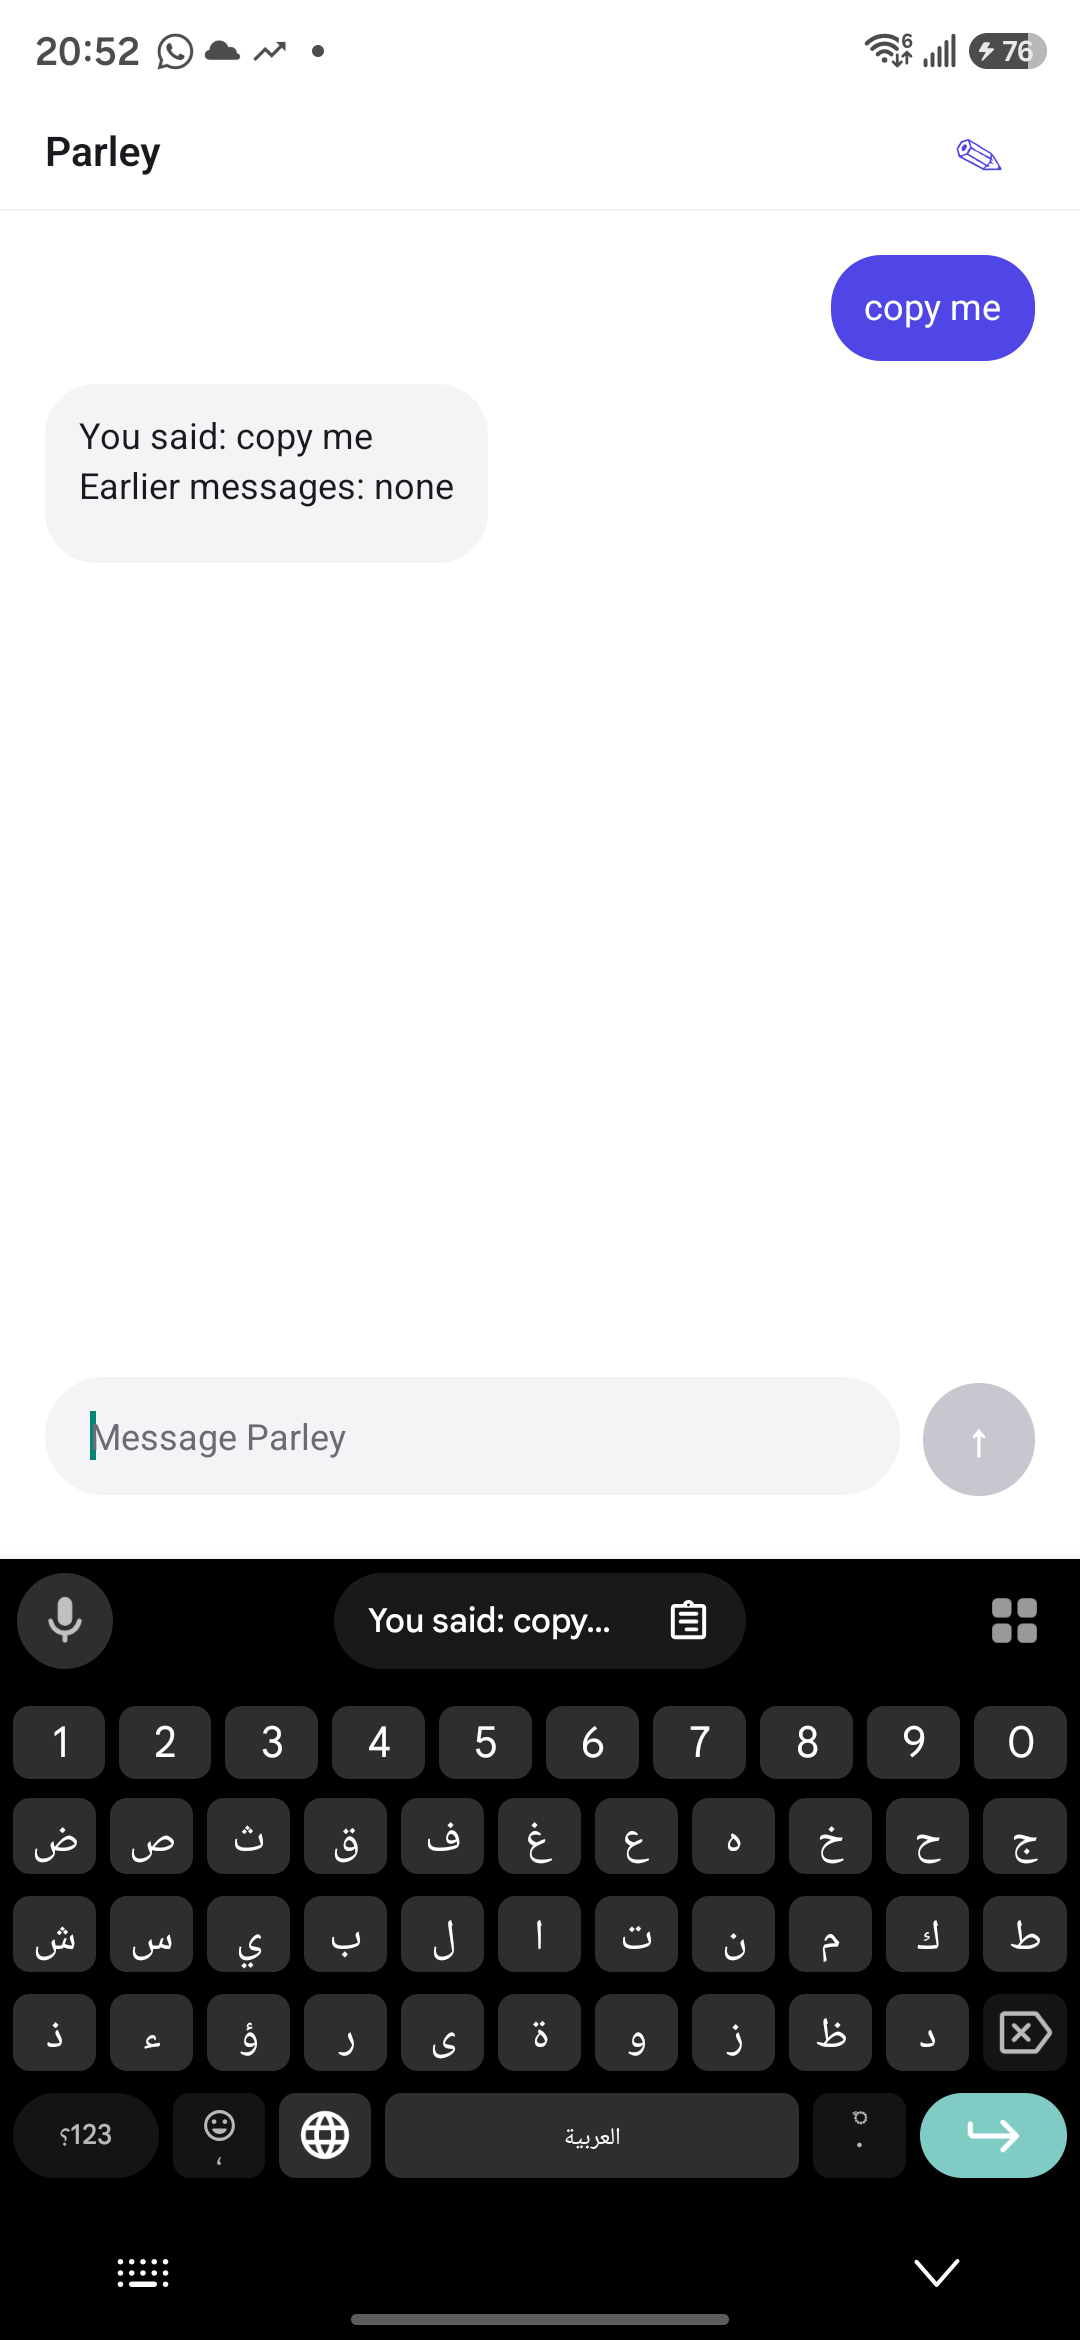
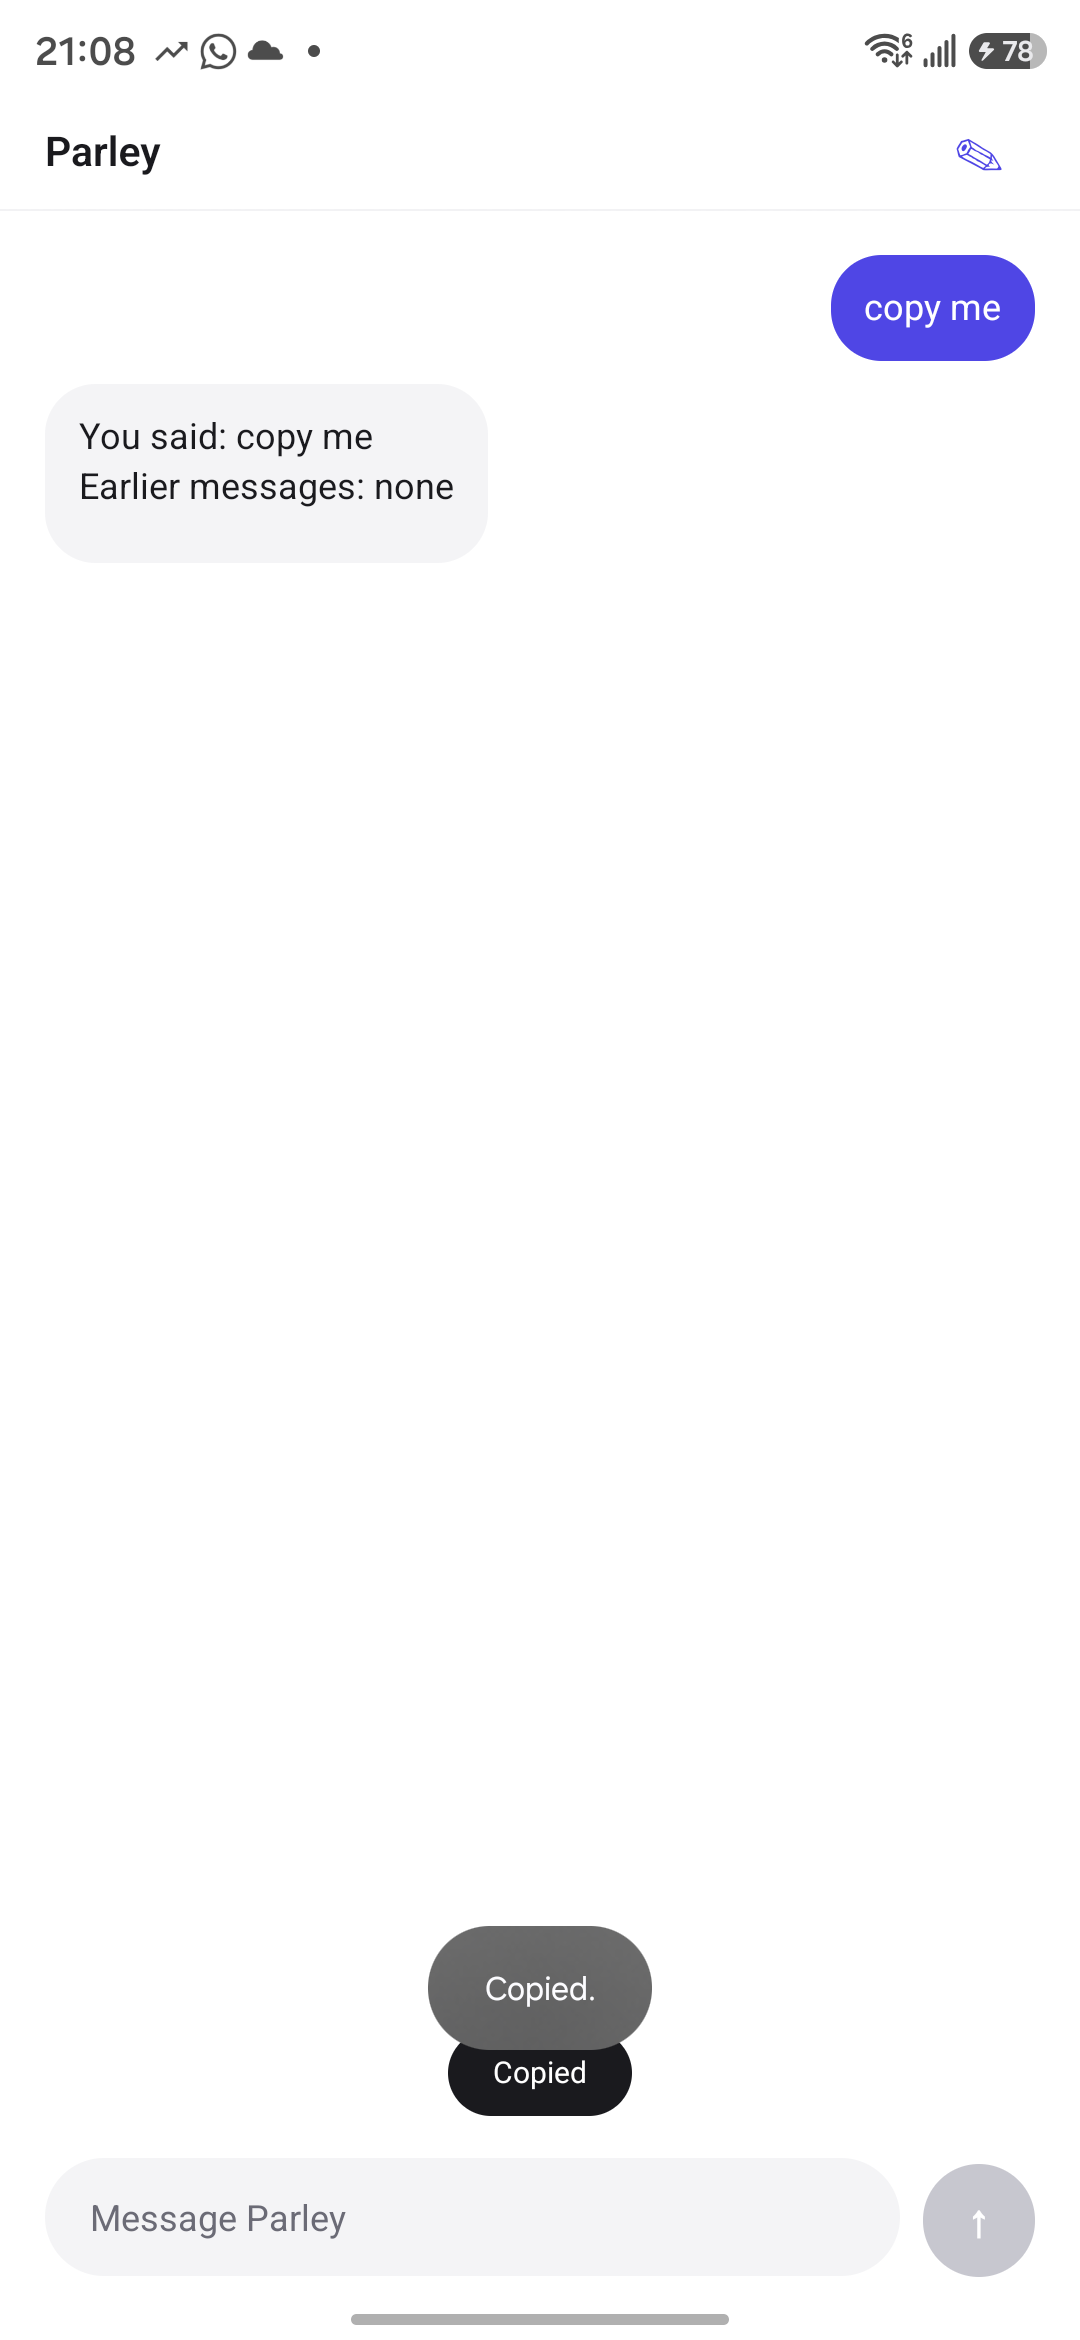
test(QA): re-sign-off S01-chat-core on e5c2e48

diff --git a/docs/sprints/S01-chat-core/qa-report.md b/docs/sprints/S01-chat-core/qa-report.md
@@ -1,9 +1,9 @@
 # QA Report: S01-chat-core
 **Verdict:** PASS
-Commit: e5c2e48 (app code as of 3df7845)
+Commit: e5c2e48 (app code; QA files at 9c8c2dc)
 
 ## Unit gate
-typecheck ✓ lint ✓ format ✓  Jest 88/88, line coverage 96.83%
+typecheck ✓ lint ✓ format ✓  Jest 92/92, line coverage 96.83%
 
 ## AC coverage
 | AC | Jest | Maestro flow | Device (Android) |
@@ -15,7 +15,7 @@ typecheck ✓ lint ✓ format ✓  Jest 88/88, line coverage 96.83%
 | AC-8, AC-9 | AnthropicProvider.test.ts | - | indirect (BUG-1 found and fixed) |
 | AC-10, AC-11, AC-12 | ChatScreen.test, chatSlice.test | chat_send_receive | pass |
 | AC-13, AC-14 | ChatScreen.test | - | not checked on device |
-| AC-15 | ChatScreen.test (user and assistant, "Copied" toast) | - | clipboard content verified on device; the "Copied" toast was not captured in the screenshot (see risks) |
+| AC-15 | ChatScreen.test (user and assistant, "Copied" toast) | - | pass: app "Copied" toast and clipboard content seen (evidence/android-ac15-copied.png) |
 | AC-16, AC-17 | ChatScreen.test, chatSlice.test, AnthropicProvider.test | chat_error_retry | pass (fail-once and persistent fail). The offline error was seen on device during BUG-1. |
 | AC-18 | ChatScreen.test (structural only) | - | pass on Android: input and Send are visible above the keyboard (evidence/android-ac18-keyboard.png) |
 | AC-19, AC-22 | ChatScreen.test, chatSlice.test | chat_new_chat | pass |
@@ -24,18 +24,20 @@ typecheck ✓ lint ✓ format ✓  Jest 88/88, line coverage 96.83%
 ## Device regression
 | Platform | Device | OS | Flows | Crashes |
 |---|---|---|---|---|
-| Android phone | Samsung SM-S938W | Android (release build) | 4/4 | 0 |
+| Android phone | Samsung SM-S938W | Android (release build of e5c2e48) | 4/4 | 0 |
 | iPhone | not run: no iPhone connected | - | - | - |
 
 Run against the proxy with LLM_PROVIDER=fake (no API cost) over LAN http://192.168.1.22:8787.
 
 ## Bugs
 Found 1 / fixed 1 / open 0.
-- BUG-1 High: Android release blocked cleartext http to the proxy, so all flows failed. Fixed in 3df7845 (usesCleartextTraffic via expo-build-properties); rebuilt, 4/4 pass.
+- BUG-1 High: Android release blocked cleartext http to the proxy, so all flows failed. Fixed in 3df7845 and narrowed in e5c2e48 (app.config.ts enables cleartext only when EXPO_PUBLIC_API_URL is http://, off for https; iOS gets NSAllowsLocalNetworking only). Clean prebuild and release rebuild from e5c2e48, 4/4 pass.
 
 ## Risks / known limitations / not tested
 - iOS was not tested on any device or simulator (AC-18 keyboard on iOS unverified).
-- usesCleartextTraffic=true is enabled for all Android builds so the app can reach a plain-http LAN proxy. This is acceptable for a dev setup. It should be revisited before any production release.
-- The "Copied" toast was not seen in the device screenshot (the keyboard was up, and the toast is brief). Jest covers it with fake timers. The clipboard content (assistant text) was seen in the keyboard clipboard suggestion.
+- Since e5c2e48, Android cleartext is on only when EXPO_PUBLIC_API_URL is http:// (unset defaults to http://localhost, so on). EXPO_PUBLIC_API_URL must be set at native build time. The iOS setting (NSAllowsLocalNetworking) was not tested.
+- Android 13+ also shows its own system "Copied" toast, so two confirmations appear together on this phone (cosmetic). The app's own "Copied" toast was captured on device.
 - Real Anthropic answers are not covered (PO checks AC-21 on device with the real key). Markdown rendering (AC-13), auto-scroll (AC-14) and small screens were not checked on device.
 - Android back and long-code-block horizontal scroll were not tested on device.
+
+Note: one earlier run on e5c2e48 failed 4/4 because of a live phone call and the phone keyboard not appearing (device state, not the app). Re-run after the phone recovered: 4/4 passed, crash log empty.
